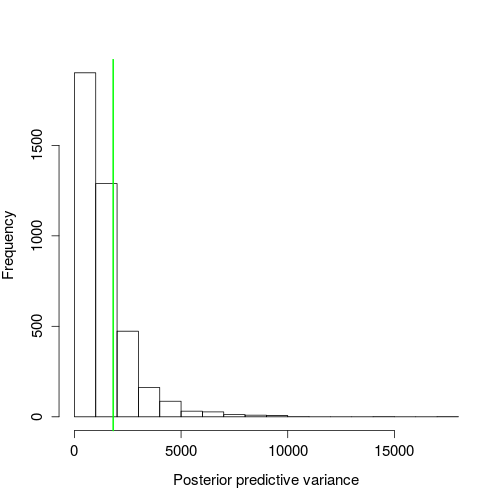
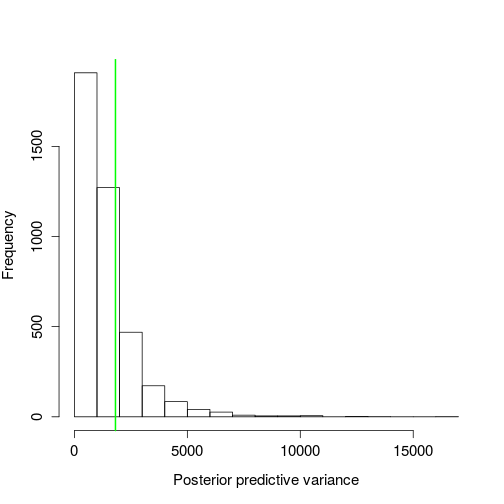
fixing a few typos

diff --git a/_site/Prius/index.html b/_site/Prius/index.html
@@ -134,7 +134,7 @@ Figure 1. Sampled distribution of wait times.</p>
 </span></code></pre>
 </div>
 
-<p>Stan parameterizes the exponential distribution using the rate, so a prior distribution that is concentrated near zero informs the model that wait times are long. This post was motivated by a belief that wait time between Prius spottings is small, so I’ll use a scale parameter that communicates this. Let’s keep things pushed toward zero (decay shape) with shape equal to one, and a large scale parameter to make for a long tail. I’m spit-balling here, but it seems like seeing a Prius every minute would be reasonable, so we’ll make both shape and scale equal to one. Choices about the prior should be made before looking at the data, but we can see how sensitive our inferences our to changing the prior (I don’t report the results in the blog, but the model doesn’t seem very sensitive to the prior, even with only 17 observations).</p>
+<p>Stan parameterizes the exponential distribution using the rate, so a prior distribution that is concentrated near zero informs the model that wait times are long. This post was motivated by a belief that wait time between Prius spottings is small, so I’ll use a scale parameter that communicates this. Let’s keep things pushed toward zero (decay shape) with shape equal to one, and a large scale parameter to make for a long tail. I’m spit-balling here, but it seems like seeing a Prius every minute would be reasonable, so we’ll make both shape and scale equal to one. Choices about the prior should be made before looking at the data, but we can see how sensitive our inferences are to changing the prior (I don’t report the results in the blog, but the model doesn’t seem very sensitive to the prior, even with only 17 observations).</p>
 
 <p>Here’s what this prior looks like.</p>
 
@@ -172,10 +172,10 @@ Figure 2. Gamma prior for exponential rate parameter.</p>
 ## post-warmup draws per chain=1000, total post-warmup draws=4000.
 ## 
 ##        mean se_mean   sd   2.5%    25%    50%    75%  97.5% n_eff Rhat
-## beta   0.03    0.00 0.01   0.02   0.02   0.03   0.03   0.04  1244    1
-## lp__ -82.16    0.02 0.74 -84.31 -82.30 -81.86 -81.70 -81.65  1497    1
+## beta   0.03    0.00 0.01   0.02   0.02   0.03   0.03   0.04  1516    1
+## lp__ -82.17    0.02 0.71 -84.08 -82.34 -81.90 -81.71 -81.65  1576    1
 ## 
-## Samples were drawn using NUTS(diag_e) at Thu Aug 31 13:46:46 2017.
+## Samples were drawn using NUTS(diag_e) at Fri Sep  1 15:23:14 2017.
 ## For each parameter, n_eff is a crude measure of effective sample size,
 ## and Rhat is the potential scale reduction factor on split chains (at 
 ## convergence, Rhat=1).
@@ -217,11 +217,11 @@ Figure 4. Inferred posterior distribution for exponential rate parameter.</p>
 </div>
 
 <div class="highlighter-rouge"><pre class="highlight"><code>##     2.5%    97.5% 
-## 22.62336 58.81163
+## 22.95475 58.07866
 </code></pre>
 </div>
 
-<p>So there’s a 95% chance the expected wait time between Prius spottings is between 23 and 59 seconds.</p>
+<p>So there’s a 95% chance the expected wait time between Prius spottings is between 23 and 58 seconds.</p>
 
 <p>We can also easily see the probability that the expected wait time is less than, say, one minute.</p>
 
@@ -229,7 +229,7 @@ Figure 4. Inferred posterior distribution for exponential rate parameter.</p>
 </span></code></pre>
 </div>
 
-<div class="highlighter-rouge"><pre class="highlight"><code>## [1] 0.97925
+<div class="highlighter-rouge"><pre class="highlight"><code>## [1] 0.98225
 </code></pre>
 </div>
 
@@ -250,7 +250,7 @@ Figure 4. Inferred posterior distribution for exponential rate parameter.</p>
 </span></code></pre>
 </div>
 
-<div class="highlighter-rouge"><pre class="highlight"><code>## [1] 0.24225
+<div class="highlighter-rouge"><pre class="highlight"><code>## [1] 0.24275
 </code></pre>
 </div>
 <p>Figure 5. Distribution of variances from posterior predictive distributions, green line is the sample variance.</p>
@@ -274,8 +274,8 @@ Figure 4. Inferred posterior distribution for exponential rate parameter.</p>
 </span></code></pre>
 </div>
 
-<div class="highlighter-rouge"><pre class="highlight"><code>##     2.5%    97.5% 
-## 0.841396 4.425619
+<div class="highlighter-rouge"><pre class="highlight"><code>##      2.5%     97.5% 
+## 0.8173403 4.5141701
 </code></pre>
 </div>
 
@@ -350,7 +350,7 @@ Figure 8. Distribution of bootstrap replicates for mean exponential wait times. 
 </div>
 
 <div class="highlighter-rouge"><pre class="highlight"><code>##     2.5%    97.5% 
-## 18.05882 57.00147
+## 18.64706 57.11912
 </code></pre>
 </div>
 
@@ -368,7 +368,7 @@ Figure 8. Distribution of bootstrap replicates for mean exponential wait times. 
 
 <p>The intervals and qqplot both indicate similar predictions, the credible interval reported above is slightly narrower.</p>
 
-<p>If the exponential distribution is a bad model to explain the wait times, it’s difficult to tell with so few observations. Conditional on the data at hand, the exponential seems to be a good assumption. Another worthwhile predictive check would be to assess if the observations are independent of each other and consistent over time/space. Ideally, the behavior of the sampling in the data would be consistent with what an exponential distribution would produce (exchangable observations). I believe this would require some sort of quntification of autocorrelation. I will hold off on doing any of that.</p>
+<p>If the exponential distribution is a bad model to explain the wait times, it’s difficult to tell with so few observations. Conditional on the data at hand, the exponential seems to be a good assumption. Another worthwhile predictive check would be to assess if the observations are independent of each other and consistent over time/space. Ideally, the behavior of the sampling in the data would be consistent with what an exponential distribution would produce (exchangeable observations). I believe this would require some sort of quantification of auto-correlation. I will hold off on doing any of that.</p>
 
 <p>Probably could have stopped at the summary statistics, but either way the takehome is clear: you don’t have to wait around long before seeing a Prius in Boulder.</p>
 

diff --git a/_posts/2017-08-30-Prius.md b/_posts/2017-08-30-Prius.md
@@ -91,7 +91,7 @@ stan_exp <- stan_model(model_code=stan_string)
 ```
 
 
-Stan parameterizes the exponential distribution using the rate, so a prior distribution that is concentrated near zero informs the model that wait times are long. This post was motivated by a belief that wait time between Prius spottings is small, so I'll use a scale parameter that communicates this. Let's keep things pushed toward zero (decay shape) with shape equal to one, and a large scale parameter to make for a long tail. I'm spit-balling here, but it seems like seeing a Prius every minute would be reasonable, so we'll make both shape and scale equal to one. Choices about the prior should be made before looking at the data, but we can see how sensitive our inferences our to changing the prior (I don't report the results in the blog, but the model doesn't seem very sensitive to the prior, even with only 17 observations).
+Stan parameterizes the exponential distribution using the rate, so a prior distribution that is concentrated near zero informs the model that wait times are long. This post was motivated by a belief that wait time between Prius spottings is small, so I'll use a scale parameter that communicates this. Let's keep things pushed toward zero (decay shape) with shape equal to one, and a large scale parameter to make for a long tail. I'm spit-balling here, but it seems like seeing a Prius every minute would be reasonable, so we'll make both shape and scale equal to one. Choices about the prior should be made before looking at the data, but we can see how sensitive our inferences are to changing the prior (I don't report the results in the blog, but the model doesn't seem very sensitive to the prior, even with only 17 observations).
 
 Here's what this prior looks like.
 
@@ -132,10 +132,10 @@ print(stan_fit)
 ## post-warmup draws per chain=1000, total post-warmup draws=4000.
 ## 
 ##        mean se_mean   sd   2.5%    25%    50%    75%  97.5% n_eff Rhat
-## beta   0.03    0.00 0.01   0.02   0.02   0.03   0.03   0.04  1244    1
-## lp__ -82.16    0.02 0.74 -84.31 -82.30 -81.86 -81.70 -81.65  1497    1
+## beta   0.03    0.00 0.01   0.02   0.02   0.03   0.03   0.04  1516    1
+## lp__ -82.17    0.02 0.71 -84.08 -82.34 -81.90 -81.71 -81.65  1576    1
 ## 
-## Samples were drawn using NUTS(diag_e) at Thu Aug 31 13:46:46 2017.
+## Samples were drawn using NUTS(diag_e) at Fri Sep  1 15:23:14 2017.
 ## For each parameter, n_eff is a crude measure of effective sample size,
 ## and Rhat is the potential scale reduction factor on split chains (at 
 ## convergence, Rhat=1).
@@ -181,10 +181,10 @@ cred1
 
 ```
 ##     2.5%    97.5% 
-## 22.62336 58.81163
+## 22.95475 58.07866
 ```
 
-So there's a 95% chance the expected wait time between Prius spottings is between 23 and 59 seconds.
+So there's a 95% chance the expected wait time between Prius spottings is between 23 and 58 seconds.
 
 We can also easily see the probability that the expected wait time is less than, say, one minute. 
 
@@ -194,7 +194,7 @@ mean(1/exp_post$beta < 60)
 ```
 
 ```
-## [1] 0.97925
+## [1] 0.98225
 ```
 
 Also valuable in a Bayesian framework is the ability to conduct posterior predictive checks. We can use posterior draws of the rate parameter, and generate simulated data from this exponential distribution. Perhaps the wait times have more variation than the exponential distribution allows for. We simply need to compare the observed variation to that of the simulated data sets:
@@ -216,7 +216,7 @@ mean(pred_var > var(wt_times$wait))
 ```
 
 ```
-## [1] 0.24225
+## [1] 0.24275
 ```
 Figure 5. Distribution of variances from posterior predictive distributions, green line is the sample variance.
 
@@ -242,8 +242,8 @@ quantile(pred_max/60, c(0.025, 0.975))
 ```
 
 ```
-##     2.5%    97.5% 
-## 0.841396 4.425619
+##      2.5%     97.5% 
+## 0.8173403 4.5141701
 ```
 
 Figure 6. Distribution of maximum wait times from posterior predictive distributions, green line is the sample maximum wait time.
@@ -325,7 +325,7 @@ quantile(boots, c(0.025, 0.975))
 
 ```
 ##     2.5%    97.5% 
-## 18.05882 57.00147
+## 18.64706 57.11912
 ```
 
 ```r
@@ -342,7 +342,7 @@ Figure 9. Bootstrap quantiles compared to posterior predictive quantiles. 1 to 1
 
 The intervals and qqplot both indicate similar predictions, the credible interval reported above is slightly narrower.
 
-If the exponential distribution is a bad model to explain the wait times, it's difficult to tell with so few observations. Conditional on the data at hand, the exponential seems to be a good assumption. Another worthwhile predictive check would be to assess if the observations are independent of each other and consistent over time/space. Ideally, the behavior of the sampling in the data would be consistent with what an exponential distribution would produce (exchangable observations). I believe this would require some sort of quntification of autocorrelation. I will hold off on doing any of that.
+If the exponential distribution is a bad model to explain the wait times, it's difficult to tell with so few observations. Conditional on the data at hand, the exponential seems to be a good assumption. Another worthwhile predictive check would be to assess if the observations are independent of each other and consistent over time/space. Ideally, the behavior of the sampling in the data would be consistent with what an exponential distribution would produce (exchangeable observations). I believe this would require some sort of quantification of auto-correlation. I will hold off on doing any of that.
 
 Probably could have stopped at the summary statistics, but either way the takehome is clear: you don't have to wait around long before seeing a Prius in Boulder.
 
